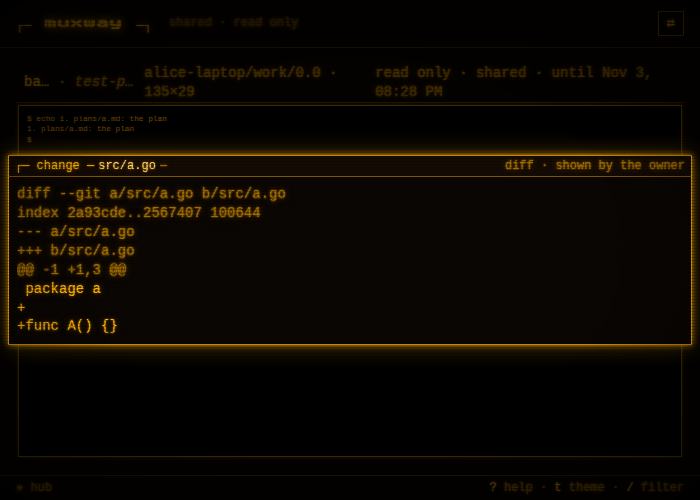
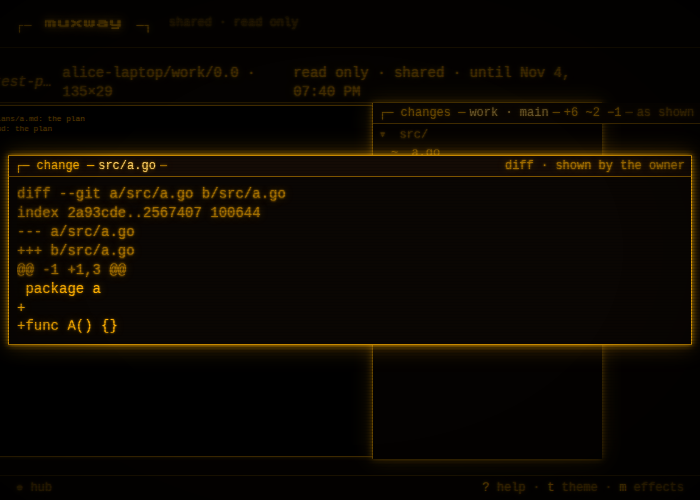
The share plan records the observer follow-up's run, with the screenshots

diff --git a/docs/plans/2026-11-03-pane-share.md b/docs/plans/2026-11-03-pane-share.md
@@ -461,4 +461,9 @@ answer), the guideline's observer row.
 
 ### Test run
 
-- (recorded below after the run)
+- Lint, unit tests, the dist check, the Go end-to-end suite and spec
+  119 on `6f5de10`: [#280](https://github.com/notmarkopadjen/muxway/issues/280),
+  246 tests, none failed, 5 skipped. A first run on the same change
+  was red: the fixture's file named with a newline made the hub refuse
+  the whole listing, which is why a change's path may hold a tab or a
+  newline.
